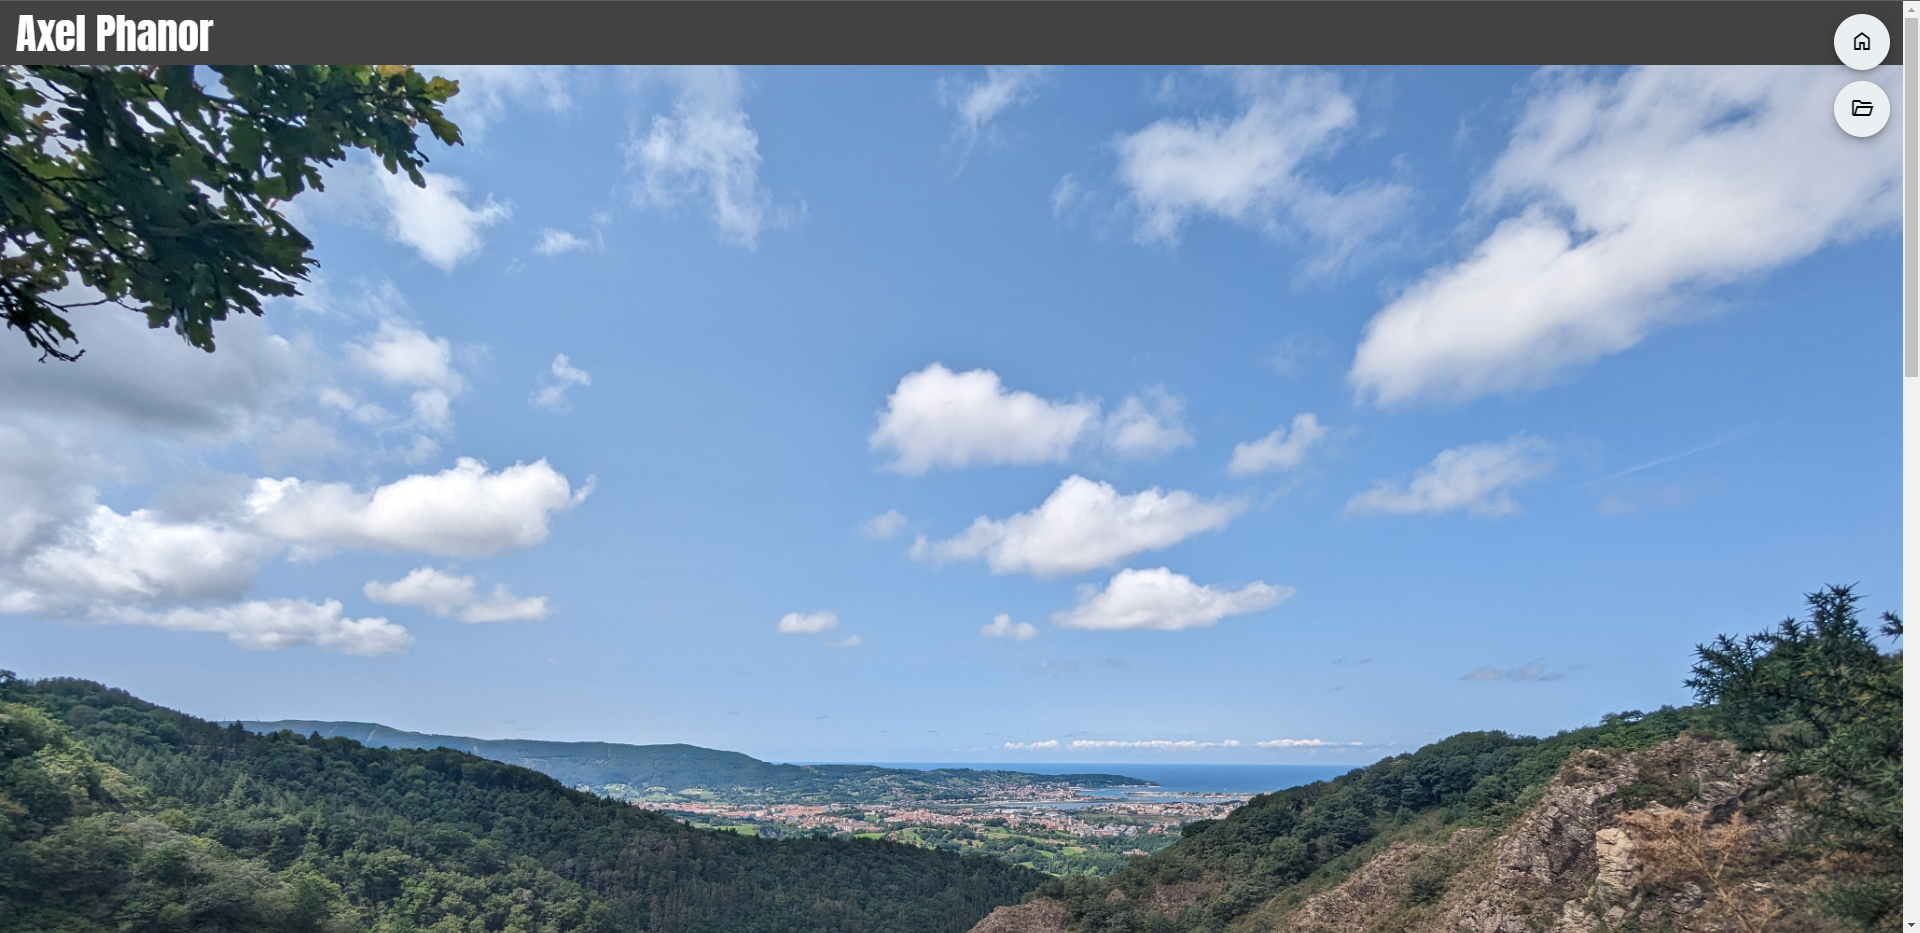
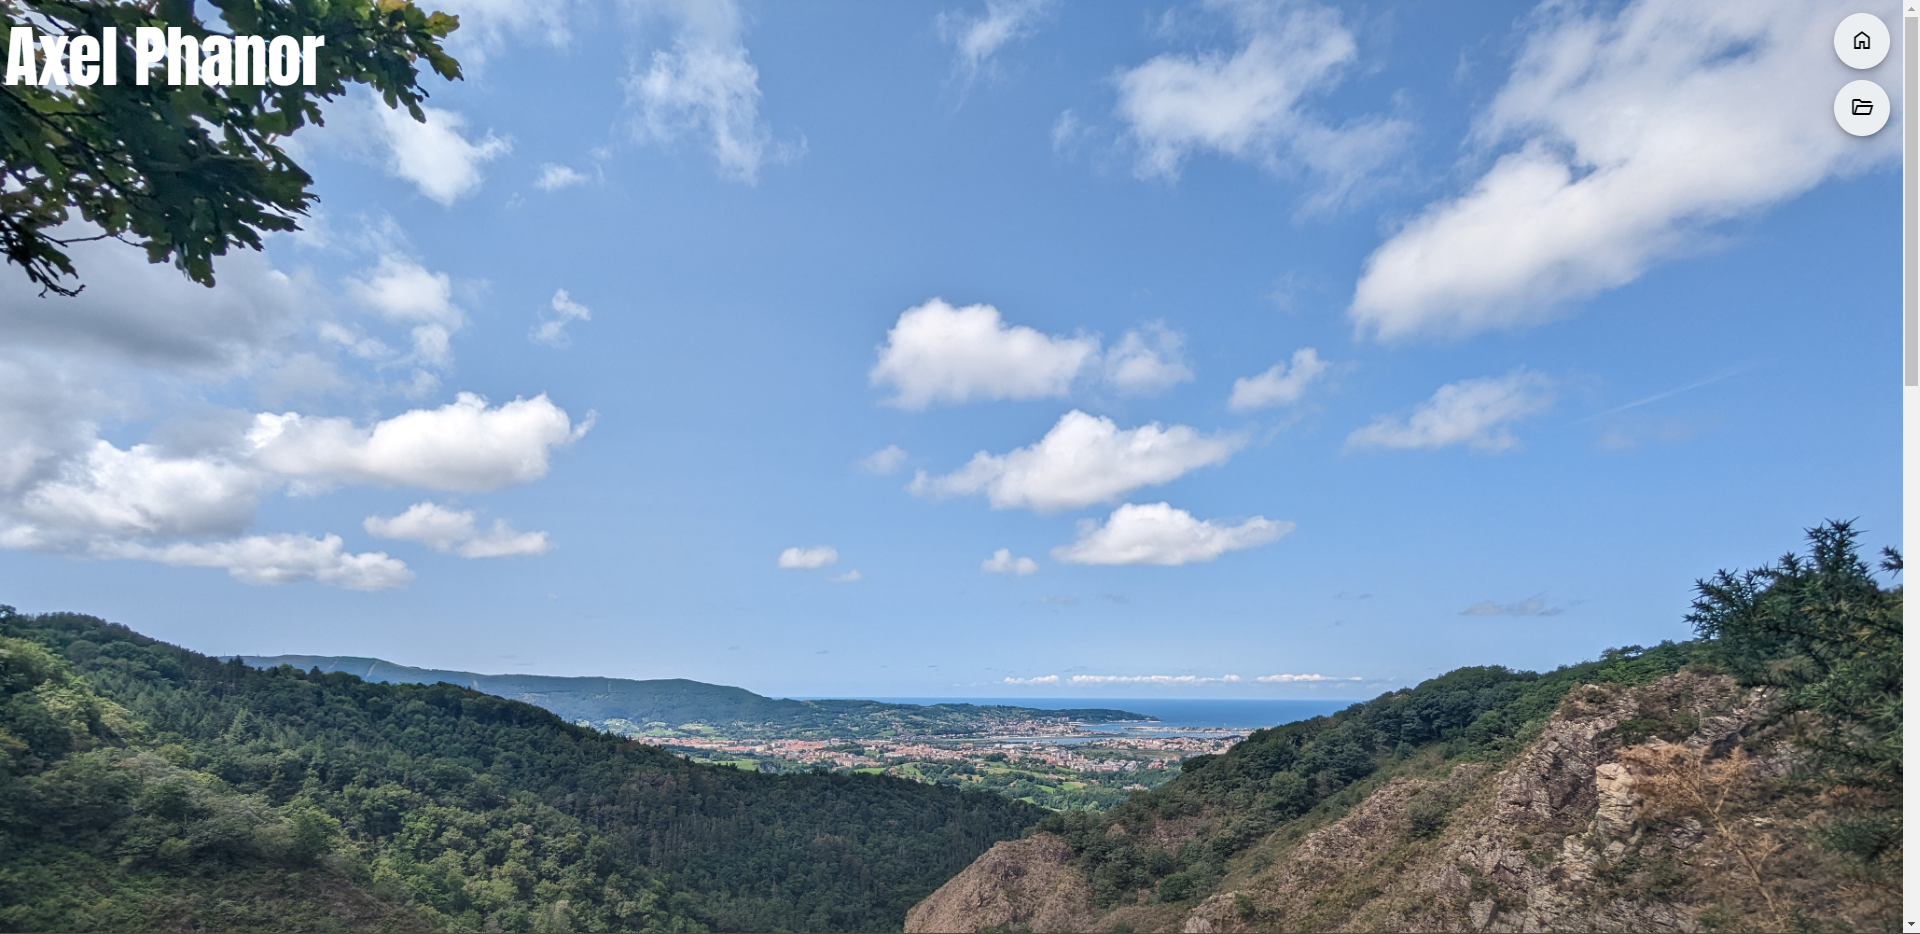
axek-portfolio

diff --git a/src/app/components/projects-page/projects-page.component.ts b/src/app/components/projects-page/projects-page.component.ts
@@ -8,33 +8,33 @@ import { Project } from 'src/app/models/project';
   styleUrls: ['./projects-page.component.css']
 })
 export class ProjectsPageComponent {
-  @Output() projects : Project[] = [];
+  @Output() projects: Project[] = [];
 
-  constructor(private GithubAPIService: GithubAPIService){}
+  constructor(private GithubAPIService: GithubAPIService) { }
 
   ngOnInit() {
     this.GithubAPIService.getProjects()
-    .then((res) => {
-      for(let data of res.data){
-        let project: Project = {
-          id: data.id,
-          name: data.name,
-          description: "",
-          createdAt: "",
-          htmlUrl: data.html_url,
-          cloneUrl: data.clone_url,
-          downloadUrl: "https://github.com/AxekPhanor/"+data.name+"/archive/refs/heads/master.zip", //downloadUrl API NO LONGER SUPPORT
+      .then((res) => {
+        for (let data of res.data) {
+          let project: Project = {
+            id: data.id,
+            name: data.name,
+            description: "",
+            createdAt: "",
+            htmlUrl: data.html_url,
+            cloneUrl: data.clone_url,
+            downloadUrl: "https://github.com/AxekPhanor/" + data.name + "/archive/refs/heads/master.zip", //downloadUrl API NO LONGER SUPPORT
+          }
+          if (data.description) {
+            project.description = data.description;
+          }
+          if (data.created_at) {
+            project.createdAt = data.created_at.slice(0, 10);
+          }
+          if (project.name != "globalWarming") {
+            this.projects.push(project);
+          }
         }
-        if(data.description){
-          project.description = data.description;
-        }
-        if(data.created_at){
-          project.createdAt = data.created_at.slice(0, 10);
-        }
-        if(project.name != "globalWarming"){
-          this.projects.push(project);
-        }
-      }
-    });
+      });
   }
 }

diff --git a/src/app/components/projects-page/projects-page.component.html b/src/app/components/projects-page/projects-page.component.html
@@ -4,7 +4,10 @@
     <mat-card *ngFor="let project of projects" class="card" color="primary">
       <mat-card-header>
         <mat-card-title>{{project.name}}</mat-card-title>
-        <mat-card-title>status : 🔴</mat-card-title>
+        <mat-card-title >status : <!--- TODO: utiliser un service pour vérifier que le site est en ligne -->
+          <span *ngIf="project.name == 'axek-portfolio'">🟢</span>
+          <span *ngIf="project.name != 'axek-portfolio'">🔴</span>
+        </mat-card-title>
         <mat-card-subtitle>Créer le : {{project.createdAt}}</mat-card-subtitle>
         <a href="{{project.htmlUrl}}"><img id="githubImg" mat-card-sm-image src="../../../assets/github.png"></a>
       </mat-card-header>

diff --git a/src/app/components/main-page/main-page.component.ts b/src/app/components/main-page/main-page.component.ts
@@ -12,6 +12,10 @@ export class MainPageComponent {
   constructor(private WheelEventService: WheelEventService) { }
 
   ngOnInit() {
-   //this.WheelEventService.scrollTo(this.page1, this.page2);
+    if (history.scrollRestoration) {
+      history.scrollRestoration = 'manual';
+    } else {
+        window.scrollTo(0, 0);
+    }
   }
 }

diff --git a/src/app/app.component.css b/src/app/app.component.css
@@ -12,10 +12,21 @@ img {
 
 .name {
   font-family: 'Anton';
-  font-size: 42px;
   color: white;
   position: absolute;
   z-index: 1;
   top: 5px;
   left: 5px;
+}
+
+@media screen and (max-width: 767px){
+  .name{
+    font-size: 42px;
+  }
+}
+
+@media screen and (min-width: 768px){
+  .name{
+    font-size: 68px;
+  }
 }

diff --git a/src/app/components/main-page/contentTyped.scss b/src/app/components/main-page/contentTyped.scss
@@ -22,4 +22,3 @@
     font-size: 24px;
   }
 }
-
